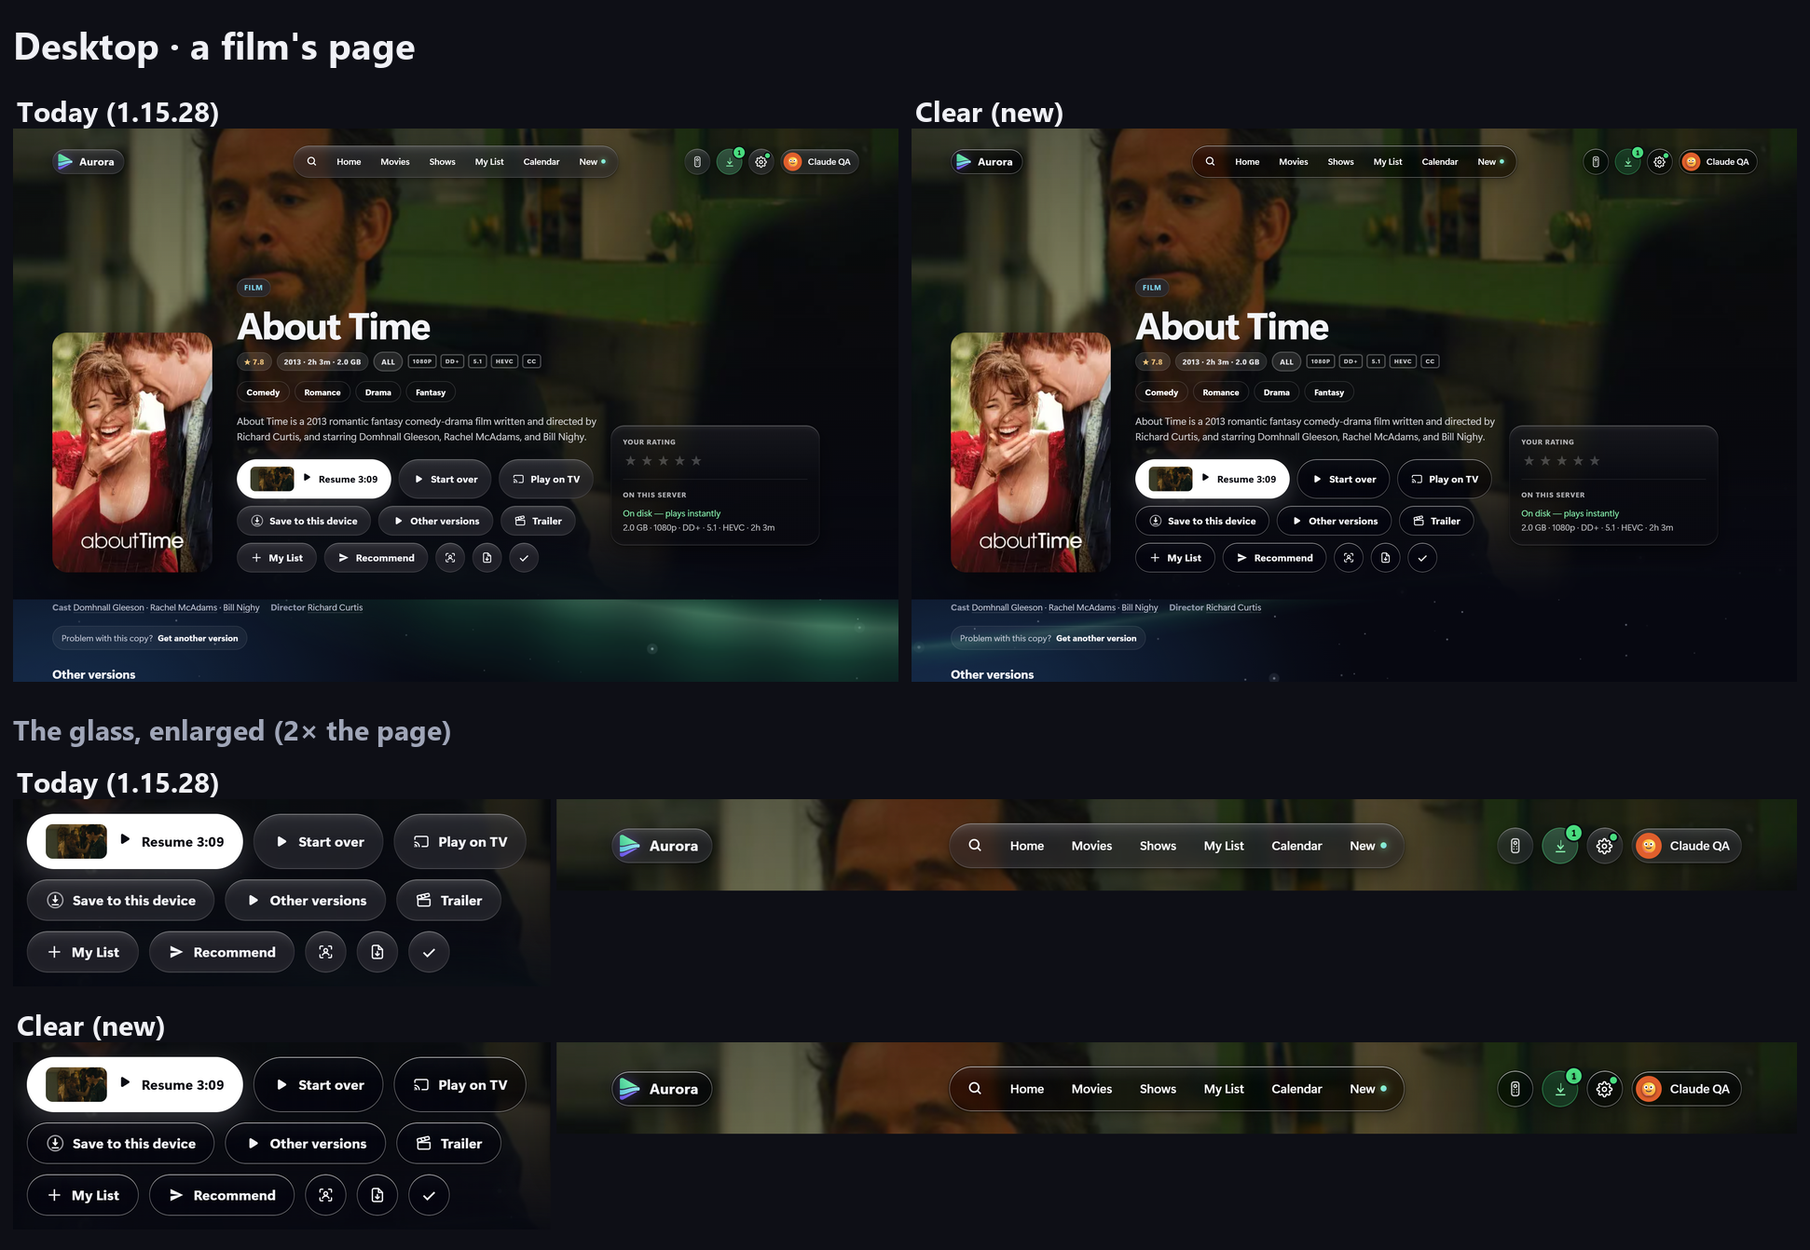
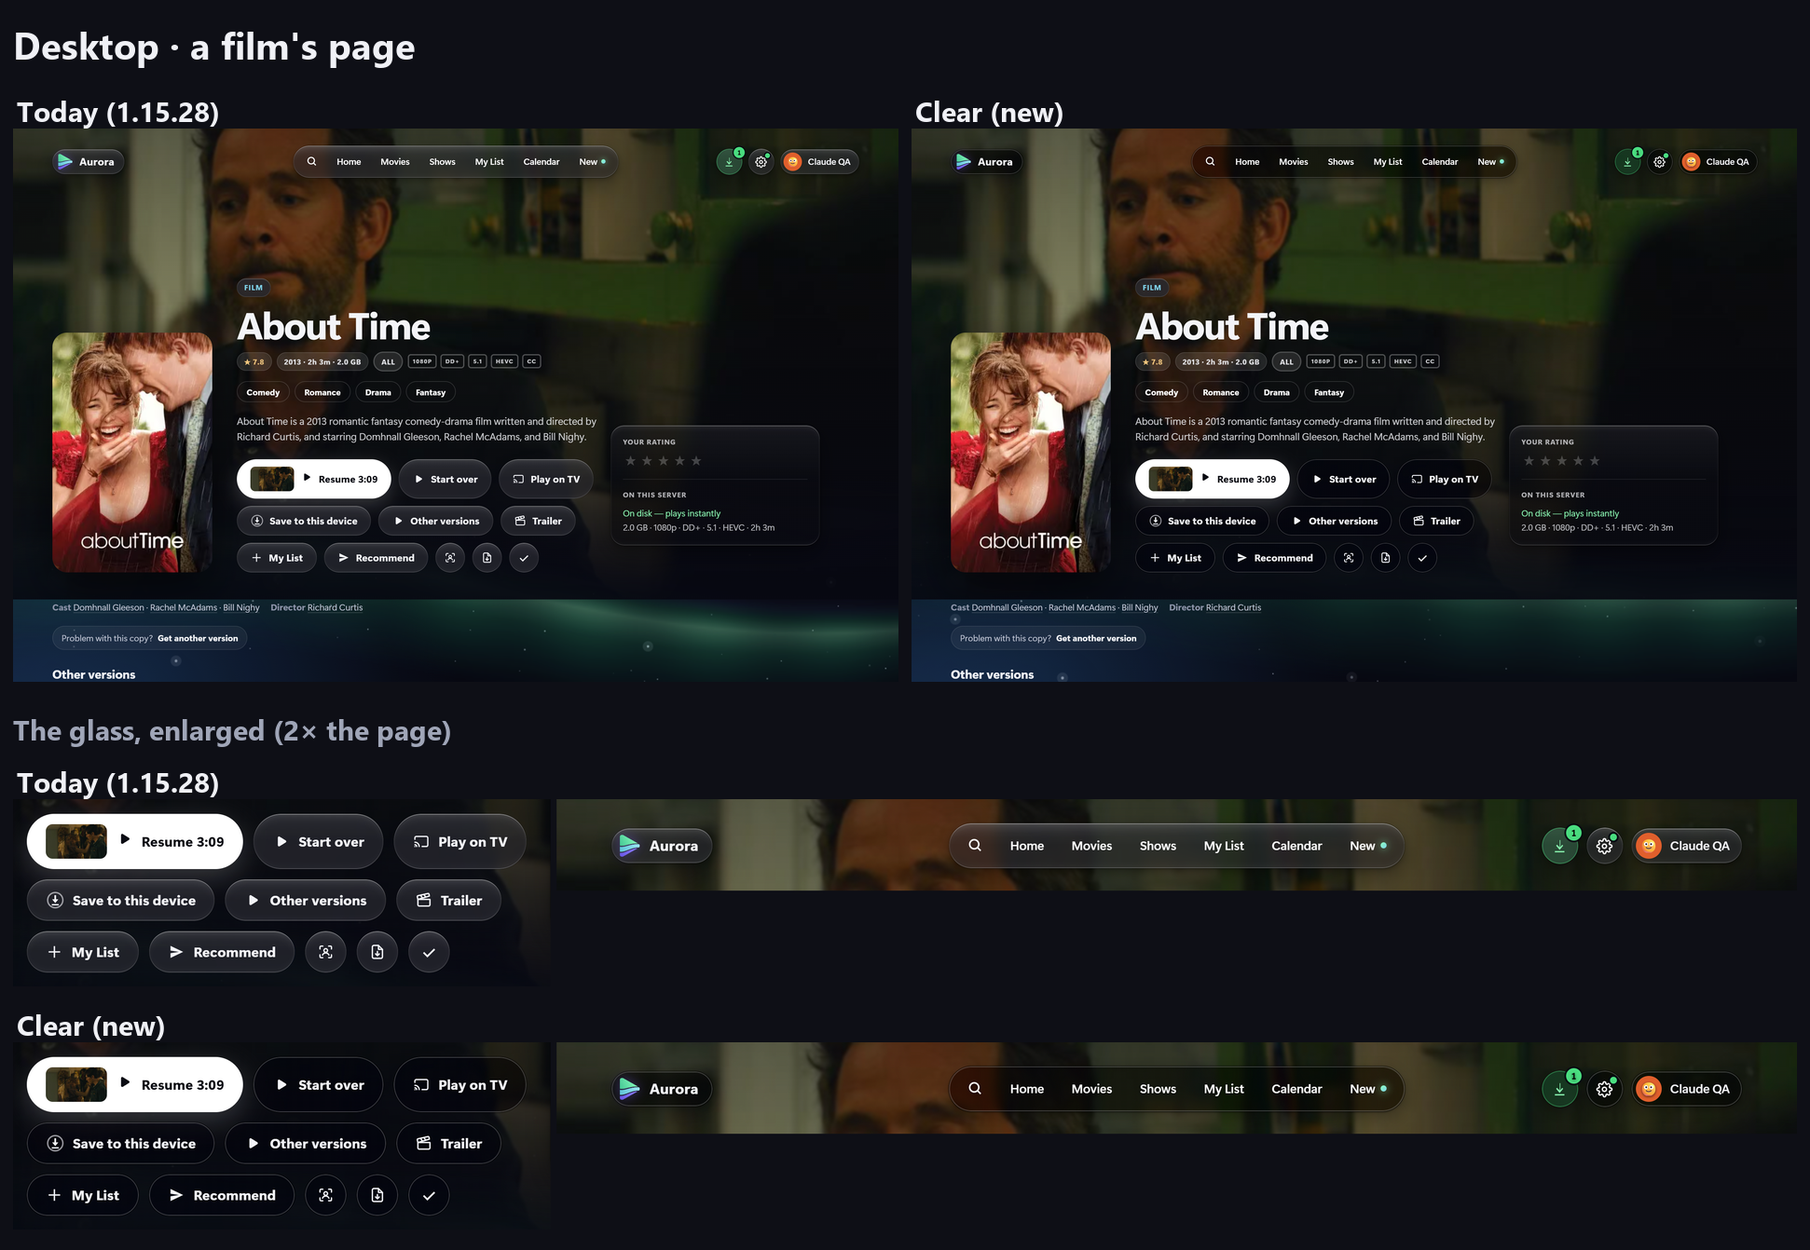
Glass (Clear): today-vs-Clear sheets, colour and contrast with the even rim; README

Changed region(s): [[0.7415, 0.4583, 1.0, 0.5194], [0.3399, 0.4583, 0.5252, 0.5499], [0.8342, 0.8554, 0.8651, 0.886]]

diff --git a/docs/qa/glass-options/final/contrast.md b/docs/qa/glass-options/final/contrast.md
@@ -2,9 +2,9 @@ under 4.5:1 (words, chosen, icons): today 6, Clear 3; lowest: today 1.0, Clear 3
 
 | surface | words | behind | today | Clear |
 |---|---|---|---:|---:|
-| Buttons on a title page (desktop 1440) | icons | white picture | 11.6 | 15.5 |
+| Buttons on a title page (desktop 1440) | icons | white picture | 11.6 | 15.9 |
 | Buttons on a title page (desktop 1440) | quiet words | white picture | 6.5 | 6.5 |
-| Buttons on a title page (desktop 1440) | words | white picture | 11.9 | 15.6 |
+| Buttons on a title page (desktop 1440) | words | white picture | 11.9 | 15.9 |
 | Buttons on a title page (phone 402) | icons | white picture | 7.0 | 7.0 |
 | Buttons on a title page (phone 402) | quiet words | white picture | 5.7 | 5.7 |
 | Chips (desktop 1440) | chosen | the sky | 8.1 | 9.2 |
@@ -27,10 +27,10 @@ under 4.5:1 (words, chosen, icons): today 6, Clear 3; lowest: today 1.0, Clear 3
 | Confirm sheet (phone 402) | words | bright sky band | 11.1 | 11.1 |
 | Confirm sheet (phone 402) | words | white text under | 11.3 | 11.3 |
 | Confirm sheet (phone 402) | words | white poster | 9.4 | 9.4 |
-| Details button on the hero (desktop 1440) | icons | white picture | 14.2 | 18.3 |
+| Details button on the hero (desktop 1440) | icons | white picture | 14.2 | 18.4 |
 | Details button on the hero (desktop 1440) | words | white picture | 14.2 | 18.4 |
-| Details button on the hero (phone 402) | icons | white picture | 12.7 | 16.8 |
-| Details button on the hero (phone 402) | words | white picture | 12.8 | 17.1 |
+| Details button on the hero (phone 402) | icons | white picture | 12.7 | 17.1 |
+| Details button on the hero (phone 402) | words | white picture | 12.8 | 17.2 |
 | Episodes and the season bar (desktop 1440) | icons | the sky | 8.3 | 10.1 |
 | Episodes and the season bar (desktop 1440) | icons | bright sky band | 8.9 | 10.4 |
 | Episodes and the season bar (desktop 1440) | words | the sky | 10.3 | 11.2 |
@@ -45,54 +45,54 @@ under 4.5:1 (words, chosen, icons): today 6, Clear 3; lowest: today 1.0, Clear 3
 | Nav island, logo, profile (desktop 1440) | chosen | bright sky band | 8.4 | 11.5 |
 | Nav island, logo, profile (desktop 1440) | chosen | white text under | 8.4 | 8.6 |
 | Nav island, logo, profile (desktop 1440) | chosen | white poster | 5.5 | 5.1 |
-| Nav island, logo, profile (desktop 1440) | icons | black | 15.6 | 20.5 |
-| Nav island, logo, profile (desktop 1440) | icons | mid grey | 8.7 | 11.0 |
-| Nav island, logo, profile (desktop 1440) | icons | bright poster | 5.6 | 5.8 |
+| Nav island, logo, profile (desktop 1440) | icons | black | 15.6 | 20.7 |
+| Nav island, logo, profile (desktop 1440) | icons | mid grey | 8.7 | 11.2 |
+| Nav island, logo, profile (desktop 1440) | icons | bright poster | 5.6 | 5.9 |
 | Nav island, logo, profile (desktop 1440) | icons | bright sky band | 11.8 | 13.5 |
 | Nav island, logo, profile (desktop 1440) | icons | white text under | 11.7 | 11.0 |
-| Nav island, logo, profile (desktop 1440) | icons | white poster | 5.5 | 5.7 |
-| Nav island, logo, profile (desktop 1440) | words | black | 14.6 | 18.6 |
-| Nav island, logo, profile (desktop 1440) | words | mid grey | 8.1 | 10.0 |
-| Nav island, logo, profile (desktop 1440) | words | bright poster | 5.2 | 5.3 |
+| Nav island, logo, profile (desktop 1440) | icons | white poster | 5.5 | 5.8 |
+| Nav island, logo, profile (desktop 1440) | words | black | 14.6 | 18.9 |
+| Nav island, logo, profile (desktop 1440) | words | mid grey | 8.1 | 10.2 |
+| Nav island, logo, profile (desktop 1440) | words | bright poster | 5.2 | 5.4 |
 | Nav island, logo, profile (desktop 1440) | words | bright sky band | 10.6 | 11.7 |
 | Nav island, logo, profile (desktop 1440) | words | white text under | 10.1 | 9.8 |
-| Nav island, logo, profile (desktop 1440) | words | white poster | 5.1 | 5.2 |
+| Nav island, logo, profile (desktop 1440) | words | white poster | 5.1 | 5.3 |
 | Nav island, logo, profile (desktop 2560) | chosen | black | 9.5 | 15.6 |
 | Nav island, logo, profile (desktop 2560) | chosen | mid grey | 7.2 | 8.3 |
-| Nav island, logo, profile (desktop 2560) | chosen | bright poster | 5.5 | 5.1 |
+| Nav island, logo, profile (desktop 2560) | chosen | bright poster | 5.5 | 5.2 |
 | Nav island, logo, profile (desktop 2560) | chosen | bright sky band | 8.3 | 11.2 |
 | Nav island, logo, profile (desktop 2560) | chosen | white text under | 8.2 | 8.6 |
 | Nav island, logo, profile (desktop 2560) | chosen | white poster | 5.5 | 5.1 |
-| Nav island, logo, profile (desktop 2560) | icons | black | 15.6 | 20.5 |
-| Nav island, logo, profile (desktop 2560) | icons | mid grey | 8.7 | 11.0 |
-| Nav island, logo, profile (desktop 2560) | icons | bright poster | 5.6 | 5.8 |
+| Nav island, logo, profile (desktop 2560) | icons | black | 15.6 | 20.7 |
+| Nav island, logo, profile (desktop 2560) | icons | mid grey | 8.7 | 11.2 |
+| Nav island, logo, profile (desktop 2560) | icons | bright poster | 5.6 | 5.9 |
 | Nav island, logo, profile (desktop 2560) | icons | bright sky band | 11.6 | 13.2 |
 | Nav island, logo, profile (desktop 2560) | icons | white text under | 11.0 | 10.9 |
-| Nav island, logo, profile (desktop 2560) | icons | white poster | 5.5 | 5.7 |
-| Nav island, logo, profile (desktop 2560) | words | black | 14.6 | 18.6 |
-| Nav island, logo, profile (desktop 2560) | words | mid grey | 8.1 | 10.0 |
-| Nav island, logo, profile (desktop 2560) | words | bright poster | 5.2 | 5.3 |
+| Nav island, logo, profile (desktop 2560) | icons | white poster | 5.5 | 5.8 |
+| Nav island, logo, profile (desktop 2560) | words | black | 14.6 | 18.9 |
+| Nav island, logo, profile (desktop 2560) | words | mid grey | 8.1 | 10.2 |
+| Nav island, logo, profile (desktop 2560) | words | bright poster | 5.2 | 5.4 |
 | Nav island, logo, profile (desktop 2560) | words | bright sky band | 10.7 | 11.9 |
 | Nav island, logo, profile (desktop 2560) | words | white text under | 10.0 | 9.4 |
-| Nav island, logo, profile (desktop 2560) | words | white poster | 5.1 | 5.2 |
+| Nav island, logo, profile (desktop 2560) | words | white poster | 5.1 | 5.3 |
 | Nav island, logo, profile (tablet 1024) | chosen | black | 9.5 | 15.6 |
 | Nav island, logo, profile (tablet 1024) | chosen | mid grey | 7.2 | 8.3 |
 | Nav island, logo, profile (tablet 1024) | chosen | bright poster | 5.6 | 5.3 |
 | Nav island, logo, profile (tablet 1024) | chosen | bright sky band | 8.6 | 12.2 |
 | Nav island, logo, profile (tablet 1024) | chosen | white text under | 8.1 | 8.3 |
 | Nav island, logo, profile (tablet 1024) | chosen | white poster | 5.5 | 5.1 |
-| Nav island, logo, profile (tablet 1024) | icons | black | 15.8 | 20.5 |
-| Nav island, logo, profile (tablet 1024) | icons | mid grey | 8.8 | 11.0 |
-| Nav island, logo, profile (tablet 1024) | icons | bright poster | 5.6 | 5.7 |
-| Nav island, logo, profile (tablet 1024) | icons | bright sky band | 11.5 | 15.0 |
+| Nav island, logo, profile (tablet 1024) | icons | black | 15.8 | 20.7 |
+| Nav island, logo, profile (tablet 1024) | icons | mid grey | 8.8 | 11.2 |
+| Nav island, logo, profile (tablet 1024) | icons | bright poster | 5.6 | 5.8 |
+| Nav island, logo, profile (tablet 1024) | icons | bright sky band | 11.5 | 15.2 |
 | Nav island, logo, profile (tablet 1024) | icons | white text under | 11.5 | 11.1 |
-| Nav island, logo, profile (tablet 1024) | icons | white poster | 5.5 | 5.7 |
-| Nav island, logo, profile (tablet 1024) | words | black | 14.6 | 18.6 |
-| Nav island, logo, profile (tablet 1024) | words | mid grey | 8.1 | 10.0 |
-| Nav island, logo, profile (tablet 1024) | words | bright poster | 5.2 | 5.3 |
+| Nav island, logo, profile (tablet 1024) | icons | white poster | 5.5 | 5.8 |
+| Nav island, logo, profile (tablet 1024) | words | black | 14.6 | 18.9 |
+| Nav island, logo, profile (tablet 1024) | words | mid grey | 8.1 | 10.2 |
+| Nav island, logo, profile (tablet 1024) | words | bright poster | 5.2 | 5.4 |
 | Nav island, logo, profile (tablet 1024) | words | bright sky band | 11.0 | 12.5 |
 | Nav island, logo, profile (tablet 1024) | words | white text under | 10.4 | 10.5 |
-| Nav island, logo, profile (tablet 1024) | words | white poster | 5.1 | 5.2 |
+| Nav island, logo, profile (tablet 1024) | words | white poster | 5.1 | 5.3 |
 | Peek sheet (desktop 1440) | icons | black | 13.7 | 13.7 |
 | Peek sheet (desktop 1440) | icons | bright sky band | 13.5 | 13.5 |
 | Peek sheet (desktop 1440) | icons | white text under | 13.3 | 13.3 |
@@ -118,8 +118,8 @@ under 4.5:1 (words, chosen, icons): today 6, Clear 3; lowest: today 1.0, Clear 3
 | Peek sheet (phone 402) | words | white text under | 11.6 | 11.6 |
 | Peek sheet (phone 402) | words | white poster | 10.0 | 10.0 |
 | Player: the Settings menu (desktop 1440) | chosen | white film frame | 1.1 ✗ | 4.8 |
-| Player: the Settings menu (desktop 1440) | icons | white film frame | 1.0 ✗ | 4.6 |
-| Player: the Settings menu (desktop 1440) | words | white film frame | 1.0 ✗ | 5.7 |
+| Player: the Settings menu (desktop 1440) | icons | white film frame | 1.0 ✗ | 4.9 |
+| Player: the Settings menu (desktop 1440) | words | white film frame | 1.0 ✗ | 5.9 |
 | Player: the Settings menu (phone 402) | chosen | white film frame | 4.7 | 4.7 |
 | Player: the Settings menu (phone 402) | icons | white film frame | 4.7 | 4.7 |
 | Player: the Settings menu (phone 402) | words | white film frame | 5.7 | 5.7 |
@@ -159,16 +159,16 @@ under 4.5:1 (words, chosen, icons): today 6, Clear 3; lowest: today 1.0, Clear 3
 | Tab bar (phone 320) | chosen | bright sky band | 7.9 | 10.0 |
 | Tab bar (phone 320) | chosen | white text under | 8.3 | 8.3 |
 | Tab bar (phone 320) | chosen | white poster | 5.5 | 5.1 |
-| Tab bar (phone 320) | icons | black | 16.0 | 20.6 |
-| Tab bar (phone 320) | icons | mid grey | 9.0 | 11.0 |
-| Tab bar (phone 320) | icons | bright poster | 5.9 | 6.2 |
+| Tab bar (phone 320) | icons | black | 16.0 | 20.7 |
+| Tab bar (phone 320) | icons | mid grey | 9.0 | 11.2 |
+| Tab bar (phone 320) | icons | bright poster | 5.9 | 6.3 |
 | Tab bar (phone 320) | icons | bright sky band | 11.1 | 13.0 |
-| Tab bar (phone 320) | icons | white text under | 16.0 | 20.6 |
-| Tab bar (phone 320) | icons | white poster | 5.6 | 5.7 |
+| Tab bar (phone 320) | icons | white text under | 16.0 | 20.7 |
+| Tab bar (phone 320) | icons | white poster | 5.6 | 5.8 |
 | Tab bar (phone 320) | words | black | 16.4 | 20.7 |
 | Tab bar (phone 320) | words | mid grey | 9.2 | 11.2 |
 | Tab bar (phone 320) | words | bright poster | 6.1 | 6.3 |
-| Tab bar (phone 320) | words | bright sky band | 10.3 | 13.6 |
+| Tab bar (phone 320) | words | bright sky band | 10.3 | 13.5 |
 | Tab bar (phone 320) | words | white text under | 11.1 | 11.2 |
 | Tab bar (phone 320) | words | white poster | 5.8 | 5.8 |
 | Tab bar (phone 402) | chosen | black | 9.5 | 15.6 |
@@ -177,12 +177,12 @@ under 4.5:1 (words, chosen, icons): today 6, Clear 3; lowest: today 1.0, Clear 3
 | Tab bar (phone 402) | chosen | bright sky band | 8.7 | 10.8 |
 | Tab bar (phone 402) | chosen | white text under | 8.3 | 10.6 |
 | Tab bar (phone 402) | chosen | white poster | 5.5 | 5.1 |
-| Tab bar (phone 402) | icons | black | 16.0 | 20.6 |
-| Tab bar (phone 402) | icons | mid grey | 9.0 | 11.0 |
-| Tab bar (phone 402) | icons | bright poster | 5.9 | 6.2 |
+| Tab bar (phone 402) | icons | black | 16.0 | 20.7 |
+| Tab bar (phone 402) | icons | mid grey | 9.0 | 11.2 |
+| Tab bar (phone 402) | icons | bright poster | 5.9 | 6.3 |
 | Tab bar (phone 402) | icons | bright sky band | 12.5 | 13.9 |
-| Tab bar (phone 402) | icons | white text under | 10.7 | 11.1 |
-| Tab bar (phone 402) | icons | white poster | 5.6 | 5.7 |
+| Tab bar (phone 402) | icons | white text under | 10.7 | 11.2 |
+| Tab bar (phone 402) | icons | white poster | 5.6 | 5.8 |
 | Tab bar (phone 402) | words | black | 16.4 | 20.7 |
 | Tab bar (phone 402) | words | mid grey | 9.2 | 11.2 |
 | Tab bar (phone 402) | words | bright poster | 6.1 | 6.3 |
@@ -201,9 +201,9 @@ under 4.5:1 (words, chosen, icons): today 6, Clear 3; lowest: today 1.0, Clear 3
 | Toast (phone 402) | words | bright sky band | 9.0 | 9.0 |
 | Toast (phone 402) | words | white text under | 9.7 | 9.7 |
 | Toast (phone 402) | words | white poster | 5.8 | 5.8 |
-| Top buttons: settings (phone 402) | icons | black | 16.1 | 20.6 |
-| Top buttons: settings (phone 402) | icons | mid grey | 9.0 | 11.0 |
+| Top buttons: settings (phone 402) | icons | black | 16.1 | 20.7 |
+| Top buttons: settings (phone 402) | icons | mid grey | 9.0 | 11.2 |
 | Top buttons: settings (phone 402) | icons | bright poster | 5.7 | 5.9 |
-| Top buttons: settings (phone 402) | icons | bright sky band | 6.6 | 7.0 |
+| Top buttons: settings (phone 402) | icons | bright sky band | 6.6 | 7.1 |
 | Top buttons: settings (phone 402) | icons | white text under | 12.0 | 11.2 |
-| Top buttons: settings (phone 402) | icons | white poster | 5.6 | 5.7 |
+| Top buttons: settings (phone 402) | icons | white poster | 5.6 | 5.8 |

diff --git a/docs/qa/glass-options/README.md b/docs/qa/glass-options/README.md
@@ -15,10 +15,7 @@ So Clear is now the glass of **what floats over the pictures**, and everything e
 
 Clear has almost no body: a fifth of a deep indigo-black over a light 3 px blur, so a poster behind a bar stays a poster. The backdrop is dimmed under the glass (brightness 0.5), which is Apple's "dimming layer" for its clear glass. That is what holds white words over a white poster. The blur also doubles the colour's saturation, so the posters' and the sky's colour come through stronger than through today's grey.
 
-A strong edge draws the shape:
-- a light line all round inside, brighter along the top;
-- a dark hairline outside;
-- a small shadow.
+The edge is one faint, even light line all round, a dark hairline outside and a small shadow. There is no light along the top: elia said "glass looks better when there isn't hard white backdrop from the top of the glass". So there is no sheen, no top line, no corner glow, and no top line on the chosen or pressed tab.
 
 Words on it carry a soft shadow of their own. The chosen tab is a lighter capsule in Aurora's violet with its own line, and its word is white.
 
@@ -48,7 +45,7 @@ Each sheet shows the same moment twice, today's glass beside Clear:
 - `01-phone-home.png`, `02-phone-more.png` (the side menu, unchanged), `03-phone-title.png`, `04-phone-sheet.png` (Recommend, unchanged), `05-desktop-home.png`, `06-desktop-menu.png`, `07-desktop-title.png`, `08-player-menu.png`, `09-phone-toast.png` (the toast unchanged, the tab bar Clear), `10-phone-bright.png` (the tab bar over white posters).
 - **`11-colour.png`: the colour through the glass**, today against Clear, in the same frames.
 
-Scenes 01–03 and 05–07 come from this PC's own server with real posters. It was only looked at, as the test profile "Claude QA", and both stylesheets were answered by the rig. The others come from a private test server with made-up art. The sky is held still and the hero does not rotate, so only the glass differs.
+Scenes 01–03 and 05–07 come from this PC's own server with real posters. It was only looked at, as the test profile "Claude QA", and both stylesheets were answered by the rig. The two sides are taken a minute apart, so live state can differ between them (a TV coming online adds "Your TVs" to the profile menu); that is not the glass. The others come from a private test server with made-up art. The sky is held still and the hero does not rotate, so only the glass differs.
 
 ## Colour (`final/colour.md`, `final/11-colour.png`)
 
@@ -56,11 +53,11 @@ These are measured on the glass's own pixels in the same frames. "Colour" is the
 
 | glass part | colour today → Clear | saturation today → Clear |
 |---|---:|---:|
-| phone, round buttons over the sky | 65 → 65 | 0.61 → 0.69 |
-| phone, tab bar over Continue Watching | 23 → 26 | 0.28 → 0.44 |
+| phone, round buttons over the sky | 65 → 66 | 0.60 → 0.69 |
+| phone, tab bar over Continue Watching | 23 → 26 | 0.28 → 0.46 |
 | phone, a film's buttons over its picture | 46 → 46 | 0.37 → 0.37 |
-| desktop, the top bar over the hero | 30 → 31 | 0.32 → 0.36 |
-| desktop, a film's buttons over its picture | 8 → 8 | 0.26 → 0.42 |
+| desktop, the top bar over the hero | 24 → 24 | 0.26 → 0.30 |
+| desktop, a film's buttons over its picture | 8 → 8 | 0.26 → 0.45 |
 
 ## Words over the brightest backgrounds (`final/contrast.md`)
 
@@ -77,7 +74,7 @@ The ratio counted is the WCAG ratio behind the dimmest 1 % of each word's pixels
 | today (1.15.28) | 6 cells | 1.0:1 (the desktop player menu) |
 | **Clear** | **3 cells** | **3.8:1** |
 
-Clear's three cells are all on surfaces that kept today's look, with the same numbers as today: episodes and the season bar, a chip's count, and the Settings panes' icons over the sky painted as one bright green band. Every surface that took Clear reads at **4.6:1 or better**.
+Clear's three cells are all on surfaces that kept today's look, with the same numbers as today: episodes and the season bar, a chip's count, and the Settings panes' icons over the sky painted as one bright green band. Every surface that took Clear reads at **4.7:1 or better**.
 
 ## Speed (CPU ×4 on a phone, the same rig and hour, medians)
 
@@ -104,7 +101,7 @@ Safari has no `prefers-reduced-transparency` media query. An iPhone with Reduce 
 
 React Native has no cheap live backdrop blur. The TV draws pre-rendered glass edges, and the phone app has no blur on its bars either. What carries over from Clear is its edge and its words, not the dim, because nothing behind is blurred or dimmed:
 
-- **TV.** Only what floats over pictures, as on the website: pills, buttons and the player's chrome would take a darker see-through body: about 55–60 % of black instead of a tinted pane, because without the dim the body must hold the words alone. They would take Clear's edge as the pre-rendered rim image: the light line all round, the brighter top line and the dark outside hairline. White words would get a soft shadow, and the chosen item a lighter violet capsule with a line, as on the website. elia wants the TV to keep Aurora's colours ("it needs to still have the aurora colors"). So the rail and the menus would keep their violet and green panels and take only Clear's edge. Focus stays the TV's white fill.
+- **TV.** Only what floats over pictures, as on the website: pills, buttons and the player's chrome would take a darker see-through body: about 55–60 % of black instead of a tinted pane, because without the dim the body must hold the words alone. They would take Clear's edge as the pre-rendered rim image: one faint even light line all round (no light along the top) and the dark outside hairline. White words would get a soft shadow, and the chosen item a lighter violet capsule with a line, as on the website. elia wants the TV to keep Aurora's colours ("it needs to still have the aurora colors"). So the rail and the menus would keep their violet and green panels and take only Clear's edge. Focus stays the TV's white fill.
 - **Phone app.** The same as the TV, and only where the website took Clear (the tab bar, the top buttons, the player's chrome): about 60 % of black, Clear's edges, white words, the violet chosen tab. Its side menu, sheets and lists stay as they are, as on the website. On Android 12 and later, a real 3 px blur with a dim (`RenderEffect`) is possible on the tab bar alone. It would need measuring first on the weakest phone we support.
 
 ## Sources (what each one gave)

diff --git a/docs/qa/glass-options/final/colour.md b/docs/qa/glass-options/final/colour.md
@@ -1,7 +1,7 @@
 | glass part | colourfulness today → Clear | saturation today → Clear |
 |---|---:|---:|
-| Phone · round buttons over the sky | 65 → 65 | 0.61 → 0.69 |
-| Phone · tab bar over Continue Watching | 23 → 26 | 0.28 → 0.44 |
+| Phone · round buttons over the sky | 65 → 66 | 0.60 → 0.69 |
+| Phone · tab bar over Continue Watching | 23 → 26 | 0.28 → 0.46 |
 | Phone · a film's buttons over its picture | 46 → 46 | 0.37 → 0.37 |
-| Desktop · the top bar over the hero | 30 → 31 | 0.32 → 0.36 |
-| Desktop · a film's buttons over its picture | 8 → 8 | 0.26 → 0.42 |
+| Desktop · the top bar over the hero | 24 → 24 | 0.26 → 0.30 |
+| Desktop · a film's buttons over its picture | 8 → 8 | 0.26 → 0.45 |
